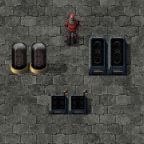
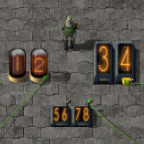
Update project files

diff --git a/README.md b/README.md
@@ -1,14 +1,32 @@
-This is a fork of Santa's Nixie Tubes [original mod](https://mods.factorio.com/mod/SantasNixieTubeDisplay), to add more UPS options.
+This is a fork of Santa's Nixie Tubes [original mod](https://mods.factorio.com/mod/SantasNixieTubeDisplay) that has better performance and other improvements.
 
-- Allows skipping frames to improve UPS.
-- It doesn't use tanks as sprites for the numbers, so it will even show up nice on the mini map.
-- It doesn't use characters for colors, so no ups drops from lots of characters on the map
-- Only positive numbers (negative numbers will show up as positive numbers at this time)
-- No colors (Nixies are originaly orange from the heated metal, maybe i'll look into adding this feature)
+Download the mod from the [Factorio Mods Portal](https://mods.factorio.com/mod/UPSFriendlyNixieTubeDisplay)
 
-# Changelog
-### Future
+## Features
 
-### Latest release
-+ Added frame skip option.
-+ added support for other mods creating nixies via script.
+- Chain multiple Nixie Tubes to display large numbers
+- Supports negative numbers
+- Has a simple GUI to choose the signal
+- Performance improvements
+  - It doesn't rerender numbers that haven't changed
+  - It doesn't use tanks as sprites for the numbers, so it will even show up nice on the mini map.
+  - It doesn't use characters for colors, so no ups drops from lots of characters on the map
+  - No colors (Nixies are orange from the heated filament)
+
+## Usage
+
+- Research the technology
+- Place one or multiple Nixie Tubes in a row to display larger numbers
+- Connect a wire to the rightmost Nixie Tube in a row and choose a signal
+
+## Changelog
+
+[changelog.txt](changelog.txt)
+
+## Contributing
+
+Feel free to submit issues and pull requests if you have suggestions or improvements.
+
+## License
+
+This project is licensed under the MIT License.

diff --git a/TODO.md b/TODO.md
@@ -23,13 +23,13 @@
 
 - [ ] Improve performance of configure_nixie_tube
 - [ ] New art
-- [ ] Rename entities both in code and localisation
-  - [ ] 'Old Nixie Tube' to either 'Classic Nixie Tube'
-  - [ ] 'Nixie Tube' to 'Reinforced Nixie Tube'
-  - [ ] Write migrations
-- [ ] Improve phrasing and naming for settings
-  - [ ] Remove update_delay setting?
-- [ ] Figure out why activity light works for Classix Nixie Tube, but not the other ones
+- [x] Rename entities both in code and localisation
+  - [x] 'Old Nixie Tube' to either 'Classic Nixie Tube'
+  - [x] 'Nixie Tube' to 'Reinforced Nixie Tube'
+  - [x] Write migrations
+- [x] Improve phrasing and naming for settings
+  - [x] Remove update_delay setting?
+- [x] Figure out why activity light works for Classix Nixie Tube, but not the other ones
 - [x] Split up GUI and controller code
 
 ## Could
@@ -38,5 +38,6 @@
   - [ ] Find out how to trigger close_sound
   - [ ] Add open sound only when opening GUI
 - [ ] Prevent opening the GUI again if it is already open
+- [x] Show the Nixie Tube preview in the GUI with rendered digits
 
 ## Won't
